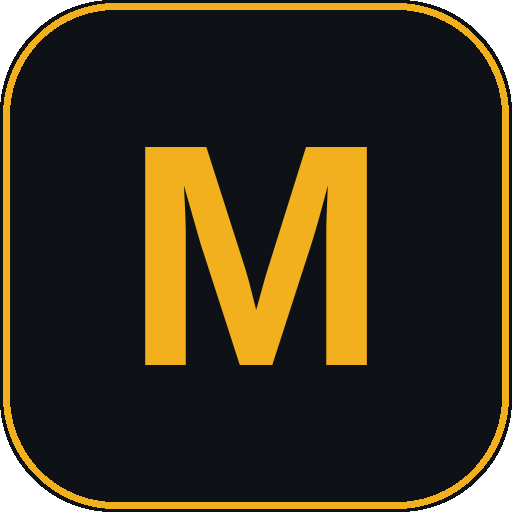
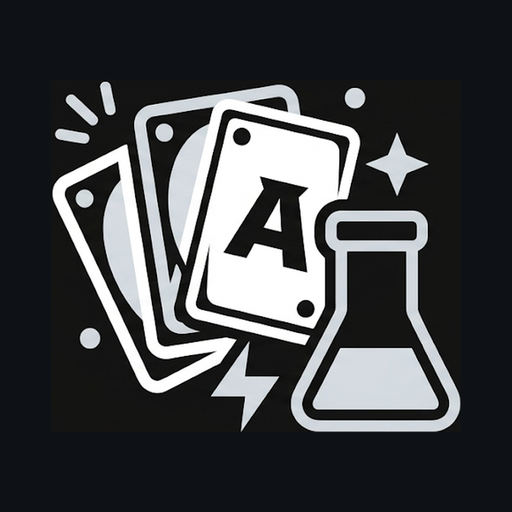
update v6.48

diff --git a/index.html b/index.html
@@ -1,6 +1,6 @@
 <!DOCTYPE html>
 <!-- ===================================================================
-     MHR DECK LAB  ·  versi 6.47  ·  18 September 2026
+     MHR DECK LAB  ·  versi 6.48  ·  18 September 2026
      Marvel Hero Rush TCG Deck Builder — fan-made, versi Indonesia
      Live: https://mhrdecklab.com/ (URL lama data2712-code.github.io tetap jalan, redirect otomatis)
      Riwayat update lengkap: lihat README.md di repository
@@ -16,7 +16,7 @@
 <meta property="og:description" content="Susun deck Marvel Hero Rush: 288 kartu, filter lengkap, kurva level, dan bagikan deck sebagai link atau gambar.">
 <meta property="og:image" content="og-image.jpg">
 <meta name="twitter:card" content="summary_large_image">
-<meta name="version" content="6.47">
+<meta name="version" content="6.48">
 <!-- PWA: bisa "Add to Home Screen" dan jalan offline (lihat sw.js + manifest.json).
      Ikon dibuat dari palet situs sendiri (ink #0E1216 + accent #F2B01E), bukan
      turunan og-image.jpg — silakan diganti kapan saja kalau mau motif lain,
@@ -1522,7 +1522,7 @@
   pemegang haknya masing-masing. Data kartu dirujuk dari
   <a href="https://www.marvelherorush.com/id/cards" target="_blank" rel="noopener">database resmi marvelherorush.com</a>.
   Alat ini akan diturunkan apabila diminta oleh pemegang hak.</span>
-  <div style="margin-top:10px;font-family:var(--mono);font-size:10.5px;color:#5A6673">v6.47</div>
+  <div style="margin-top:10px;font-family:var(--mono);font-size:10.5px;color:#5A6673">v6.48</div>
 </footer>
 
 <div class="dview" id="simView" hidden>

diff --git a/README.md b/README.md
@@ -1,6 +1,6 @@
 # MHR Deck Lab
 
-**Versi saat ini: v6.47** · 18 September 2026
+**Versi saat ini: v6.48** · 18 September 2026
 
 Deck builder web untuk **Marvel Hero Rush TCG** — versi Indonesia.
 Dibuat karena belum ada deck builder resmi untuk game ini.
@@ -589,6 +589,60 @@ tanpa peringatan. Semua transisi tanpa error console.
    paham tanpa perlu toggle. Sengaja belum dikerjakan di rilis ini karena gaya
    penulisannya perlu dicek dulu ke pemilik lewat beberapa contoh (butuh sesi
    terpisah, lebih ke pekerjaan tulisan daripada kode).
+
+### v6.48 — Ganti favicon/app icon jadi logo resmi "MHR Deck Lab" — 18 September 2026 *(`icons/*.png`)*
+
+Permintaan pemilik: pasang logo resmi (kartu-kartu + labu erlenmeyer, gradasi
+kuning-oranye "MHR" + putih "DECK LAB") sebagai icon utama situs — sebelumnya
+`icons/` masih berisi set placeholder (huruf "M" kuning dengan border, bukan
+logo final).
+
+Logo yang dikirim pemilik berbentuk banner lebar (1600×497, ikon + wordmark
+sejajar) — bukan bentuk kotak yang dibutuhkan favicon/app icon. Jadi bagian
+ikon (kartu-kartu + labu, tanpa teks "MHR DECK LAB") di-crop dari sisi kiri
+banner, lalu di-render ulang ke kanvas kotak dengan warna latar
+`#0E1216` (sama persis dengan `theme_color`/`background_color` di
+`manifest.json`, supaya menyatu dengan splash screen PWA) dan padding yang
+disesuaikan per jenis:
+
+- **Icon biasa** (favicon, apple-touch-icon, `icon-192`/`icon-512`, purpose
+  `"any"`) — mark diisi ~80% lebar kanvas, padding wajar ala app-icon standar.
+- **`icon-maskable-512`** — mark sengaja diperkecil ke ~62% lebar kanvas
+  supaya tetap aman di dalam *safe zone* (lingkaran tengah 80%) yang dipakai
+  launcher Android untuk masking bentuk (lingkaran/persegi bulat/dsb) —
+  kalau tidak, bagian tepi ikon (labu, kartu) bisa terpotong di beberapa
+  launcher.
+
+**File yang diganti** (nama file SAMA PERSIS dengan sebelumnya, jadi tidak
+ada referensi di `index.html`/`manifest.json` yang perlu diubah):
+
+- `icons/favicon-16.png`, `icons/favicon-32.png` — tab browser.
+- `icons/apple-touch-icon.png` (180×180) — ikon saat disimpan ke home screen
+  iOS.
+- `icons/icon-192.png`, `icons/icon-512.png` (purpose `"any"`) — ikon PWA
+  umum.
+- `icons/icon-maskable-512.png` (purpose `"maskable"`) — ikon adaptif
+  Android, full-bleed tanpa transparansi sesuai spesifikasi maskable icon.
+
+**Catatan:** favicon 16×16 secara alami agak buram (detail kartu, kilau,
+petir tidak muat jernih di 16 piksel) — ini wajar untuk logo serapi ini dan
+sama seperti kebanyakan situs dengan logo detail; ukuran 32×32 ke atas sudah
+jelas terbaca. Gambar sosial (`og-image.jpg`, dipakai `og:image` untuk
+preview link di media sosial) TIDAK disentuh di rilis ini karena bukan yang
+diminta — beda dari favicon/app icon, itu murni gambar preview link,
+sengaja dibiarkan menunggu arahan terpisah kalau pemilik mau logo baru juga
+dipakai di sana.
+
+**Verifikasi**: dibandingkan dulu dengan set ikon lama (placeholder huruf
+"M") untuk konfirmasi bahwa memang belum pakai logo asli; hasil crop & tiap
+ukuran dicek visual satu per satu (termasuk upscale nearest-neighbor untuk
+favicon 16×16/32×32, karena di ukuran itu kelihatan sekali kalau detailnya
+hilang); tidak ada perubahan kode (HTML/JS/manifest) karena nama file
+dipertahankan sama, jadi tidak perlu tes fungsional Playwright — cukup
+verifikasi biner (ukuran file wajar, mode warna benar: `"any"` RGB solid,
+`"maskable"` RGB full-bleed tanpa alpha) dan sinkronisasi byte-identik +
+stabilitas 15 detik ke perangkat pemilik, sama seperti rilis-rilis
+sebelumnya.
 
 ### v6.47 — Tanggal publish deck di galeri "Dari Pengguna" — 18 September 2026 *(`index.html`, `decks.js`)*
 
